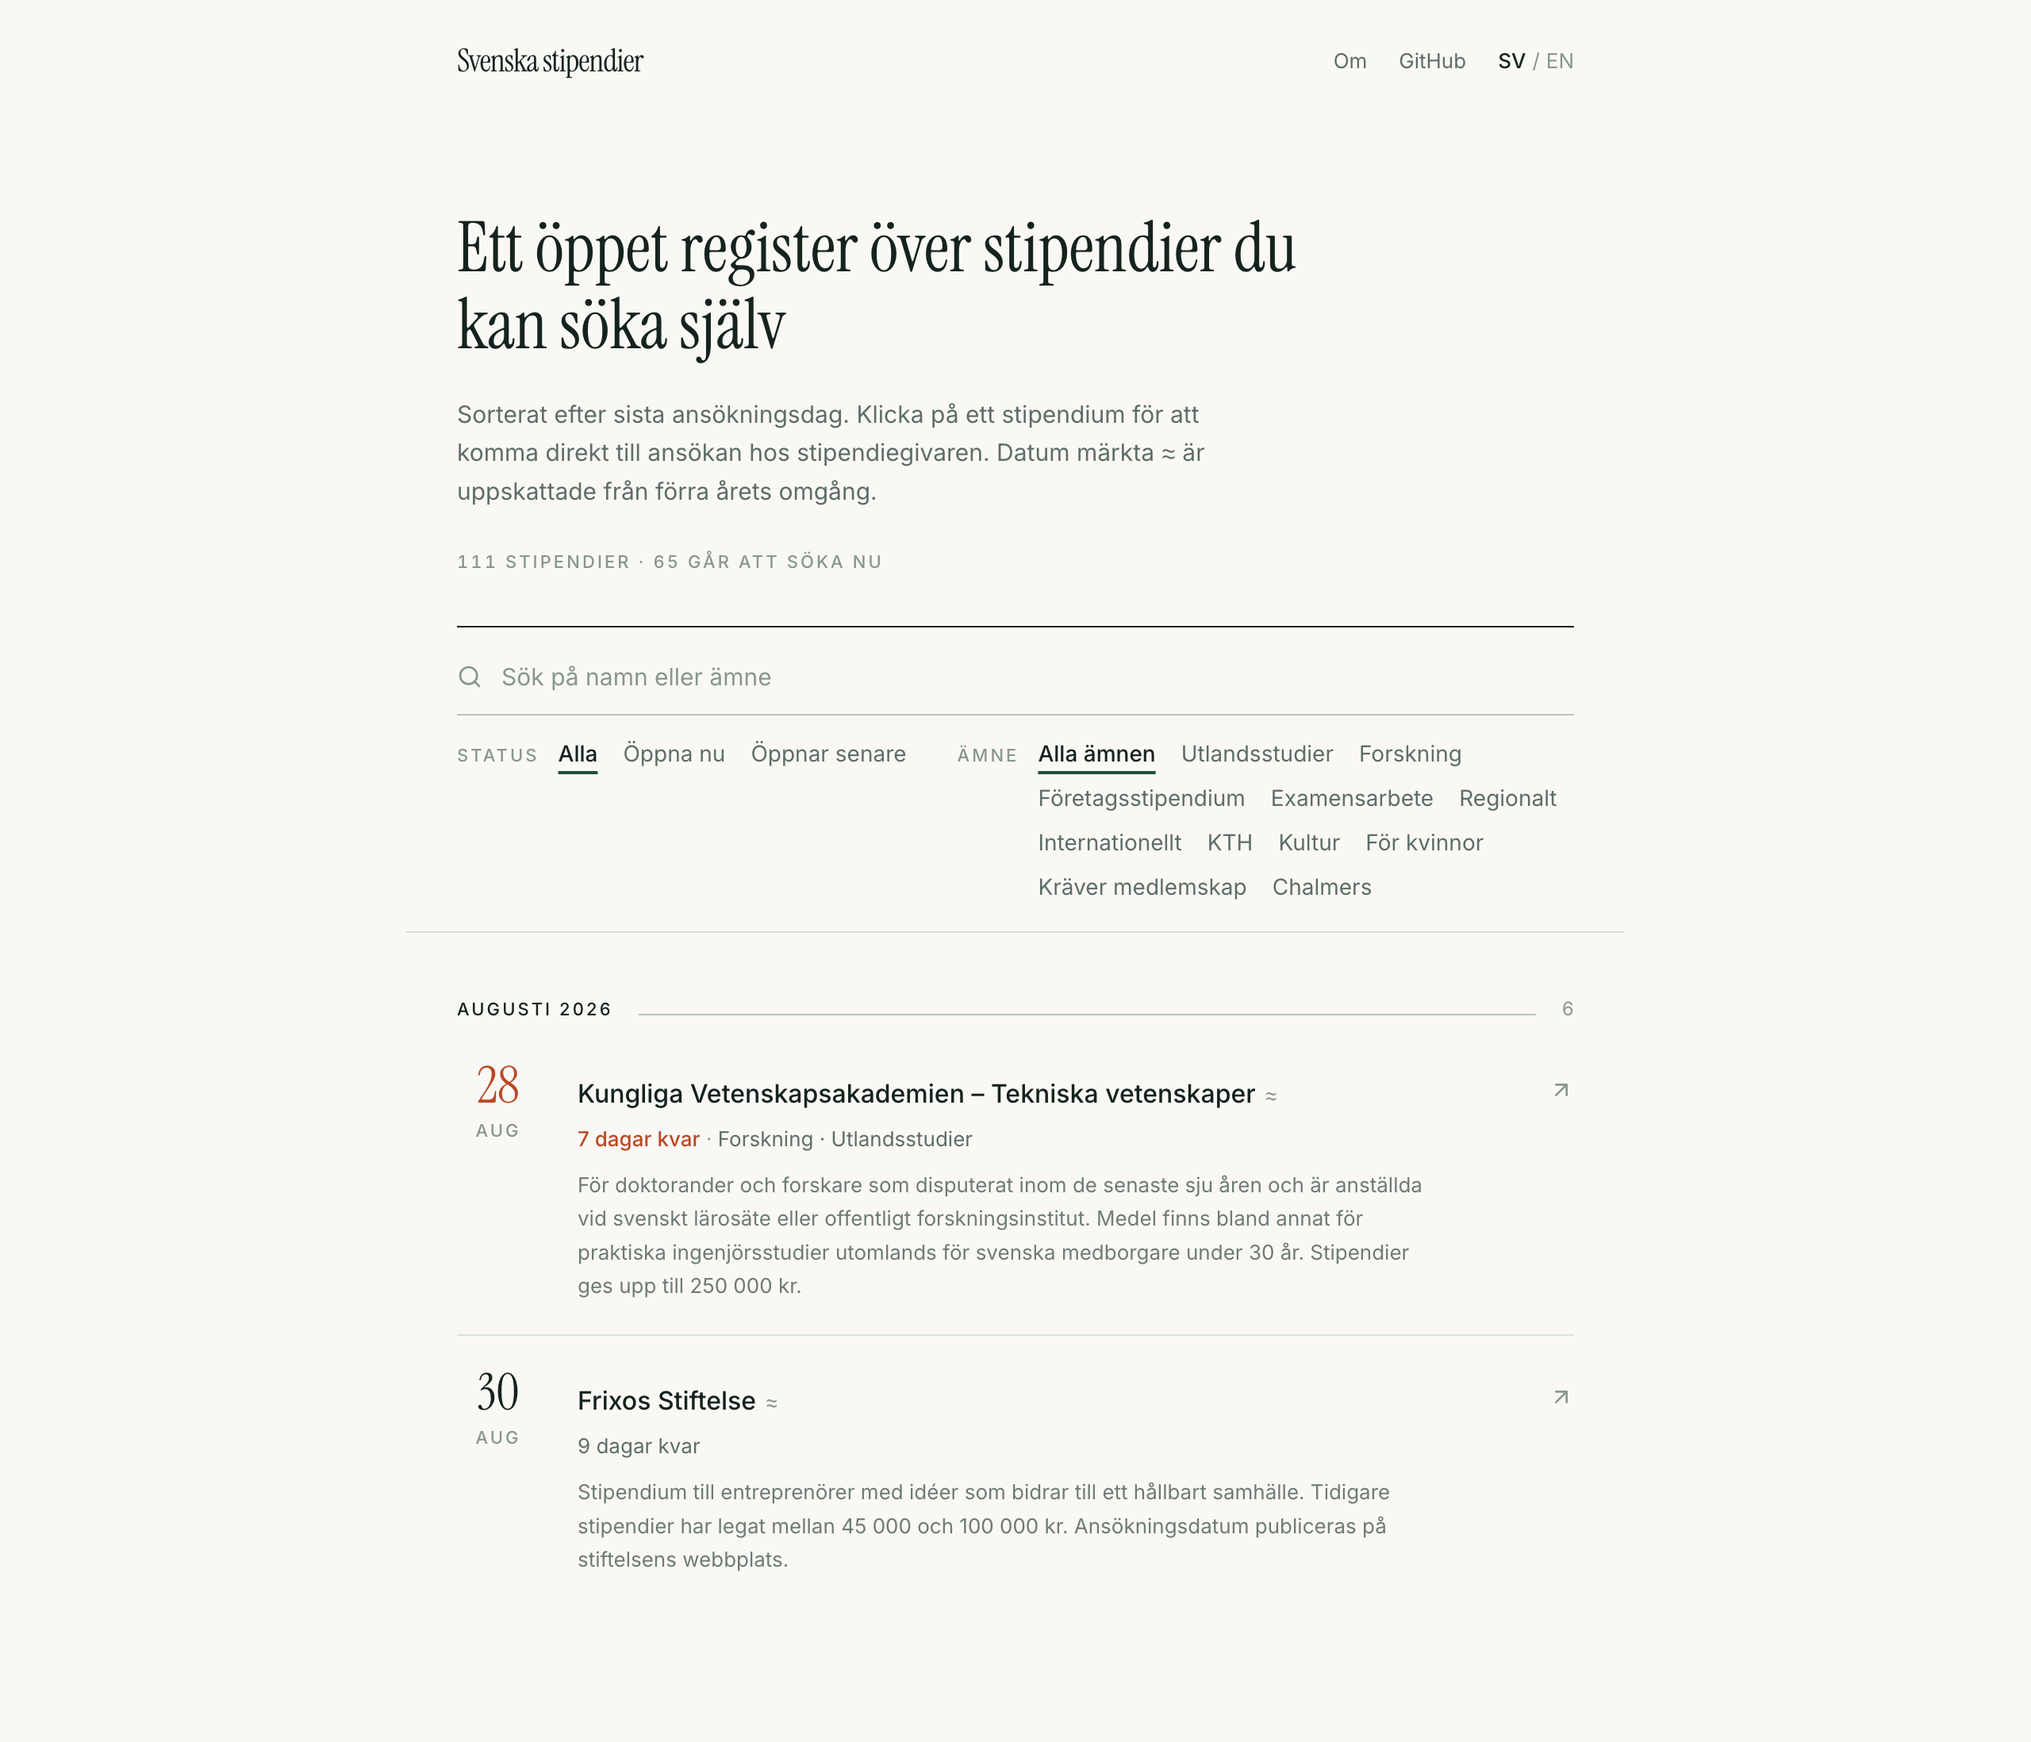
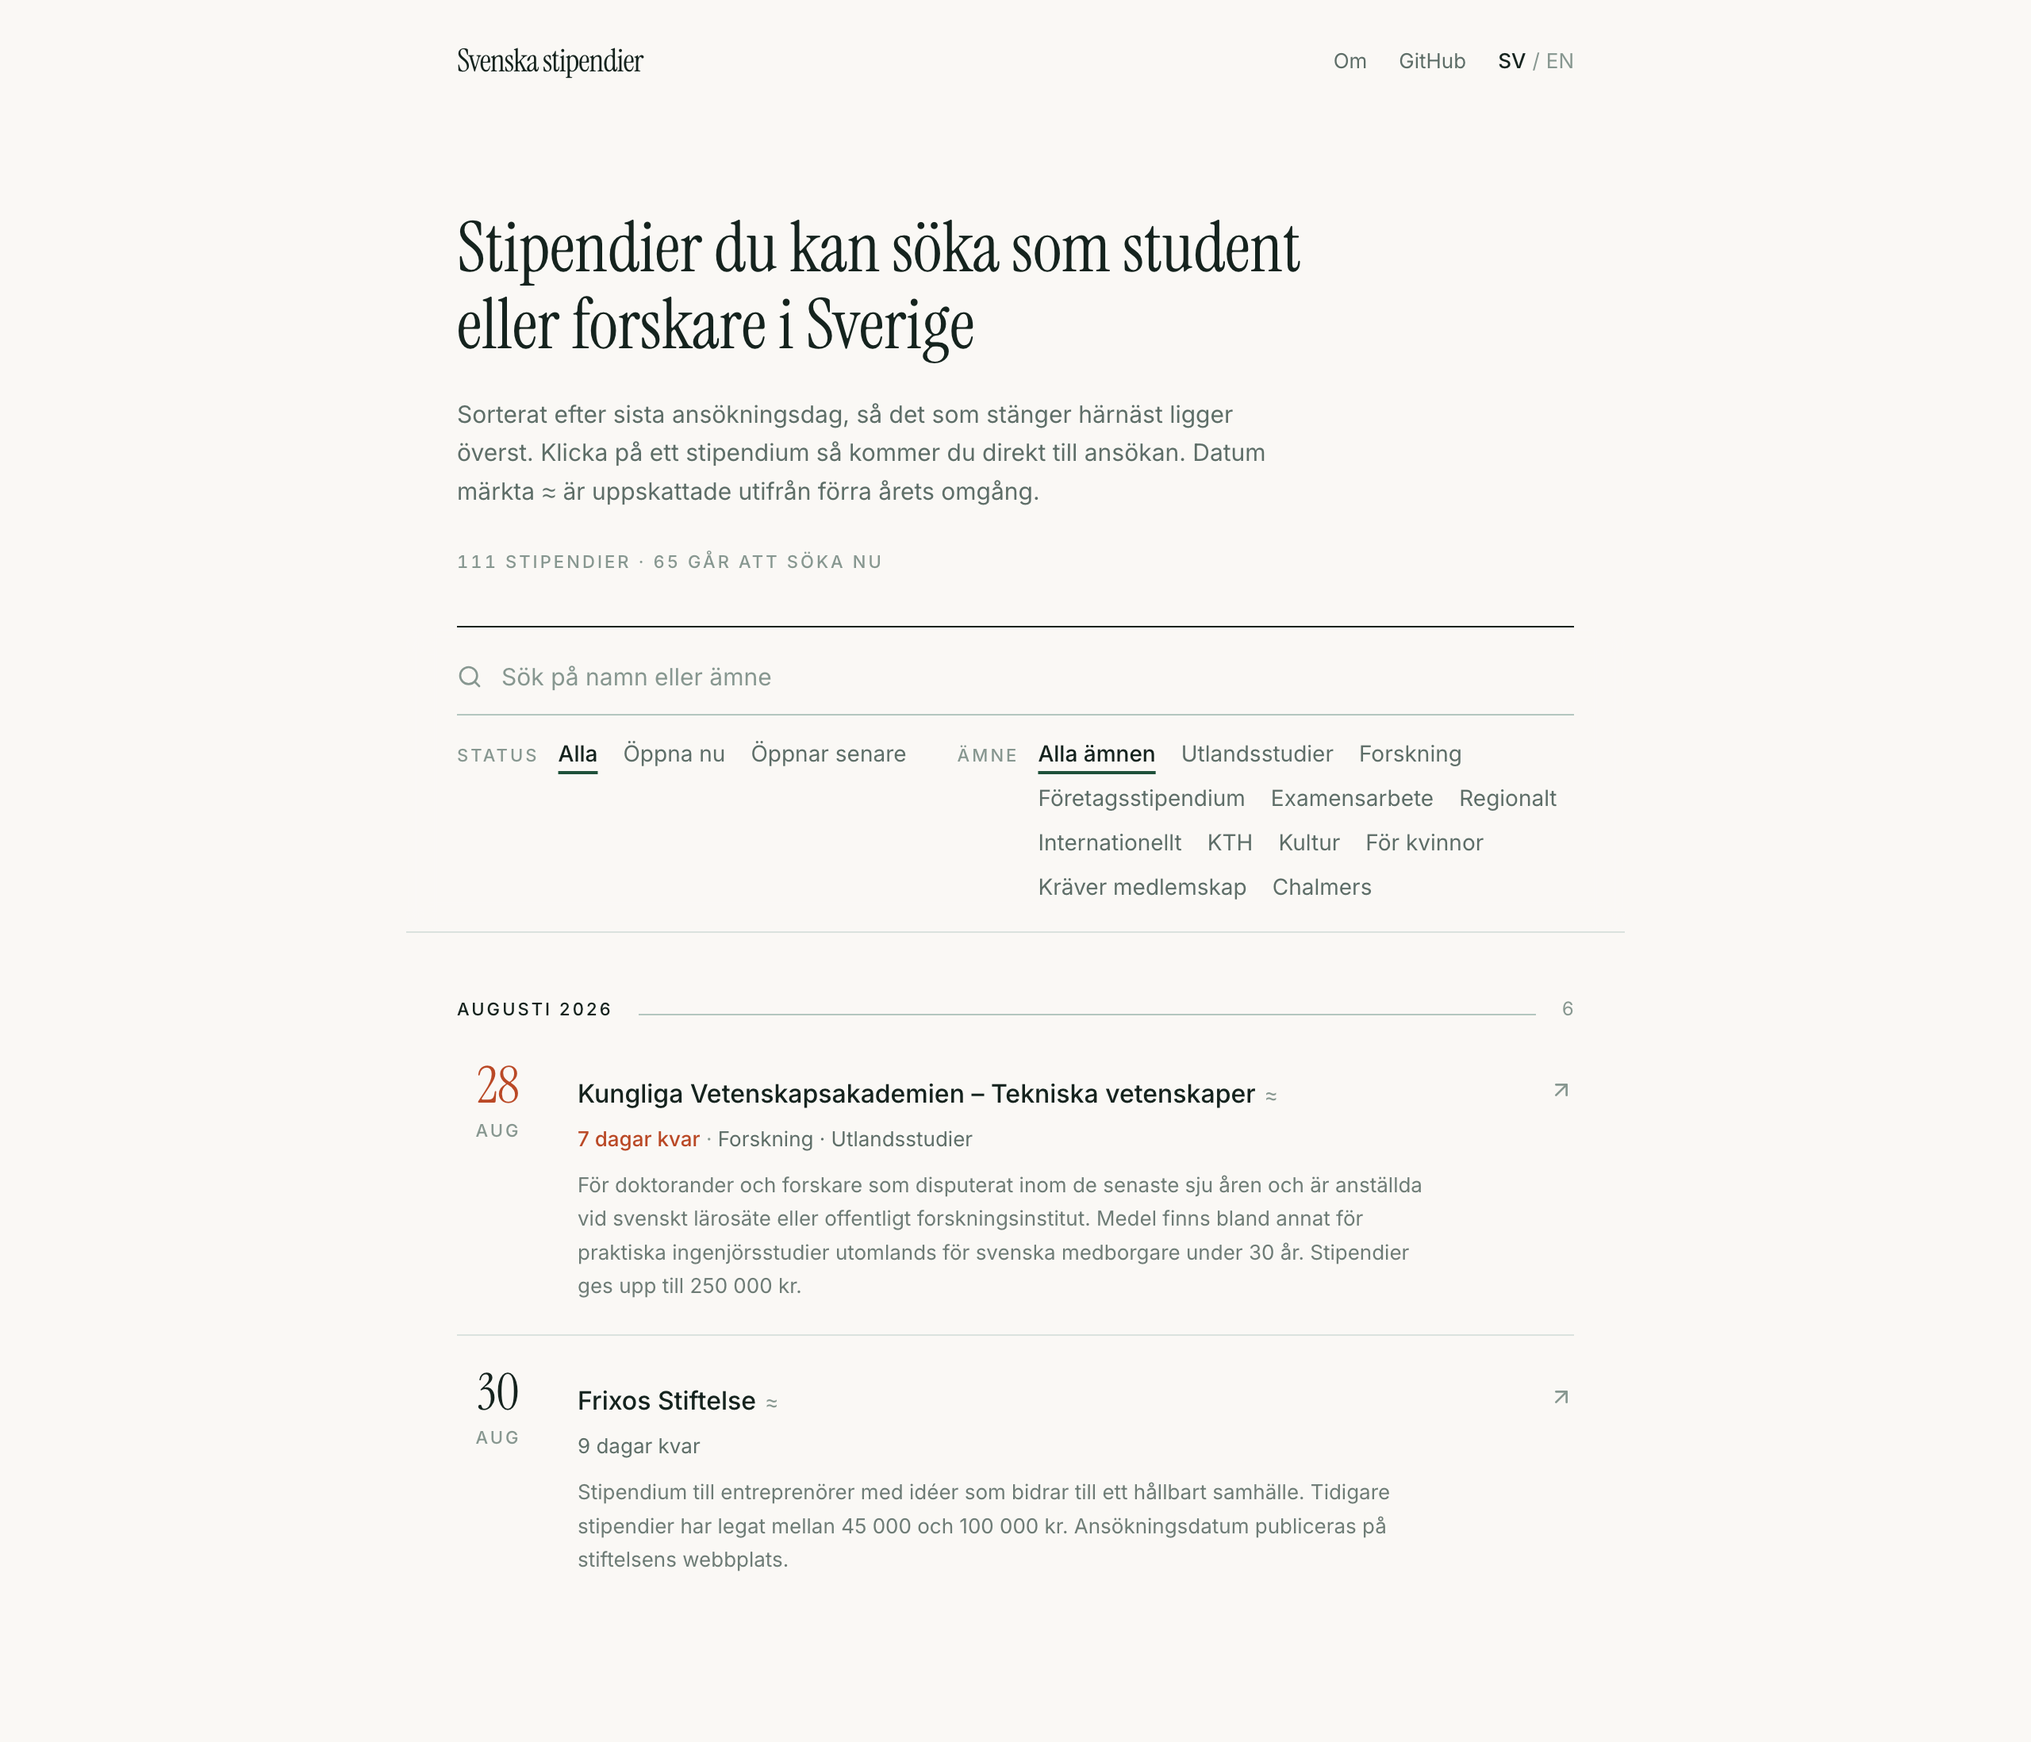
Rewrite the site copy so it sounds like a person
The interface read like a register maintained by an institution. It now
addresses the student or researcher reading it directly: a headline that
says who the list is for, plainer filter and status labels, and an about
page that explains where the dates come from without the officialese.
Swedish first, English to match.

Refreshes the two README screenshots so they show the new wording.

Changed region(s): [[0.2188, 0.1239, 0.625, 0.3097]]

diff --git a/src/lib/i18n.ts b/src/lib/i18n.ts
@@ -14,33 +14,33 @@ export const translations = {
       closeMenu: "Stäng meny",
     },
     directory: {
-      tagline: "Ett öppet register över stipendier du kan söka själv",
+      tagline: "Stipendier du kan söka som student eller forskare i Sverige",
       standfirst:
-        "Sorterat efter sista ansökningsdag. Klicka på ett stipendium för att komma direkt till ansökan hos stipendiegivaren. Datum märkta ≈ är uppskattade från förra årets omgång.",
+        "Sorterat efter sista ansökningsdag, så det som stänger härnäst ligger överst. Klicka på ett stipendium så kommer du direkt till ansökan. Datum märkta ≈ är uppskattade utifrån förra årets omgång.",
       searchPlaceholder: "Sök på namn eller ämne",
       summary: "{{total}} stipendier · {{open}} går att söka nu",
       countOne: "1 träff",
       countMany: "{{count}} träffar",
-      noResults: "Inga stipendier matchar din sökning.",
-      noResultsHint: "Prova ett bredare filter, eller tipsa oss om ett som saknas.",
+      noResults: "Inga träffar på den sökningen.",
+      noResultsHint: "Testa ett bredare filter, eller tipsa oss om ett stipendium som saknas.",
       clearFilters: "Rensa",
       allTags: "Alla ämnen",
       filterSubject: "Ämne",
       filterStatus: "Status",
       rollingHeading: "Löpande ansökan",
-      rollingSub: "Går att söka när som helst",
+      rollingSub: "Du kan söka när som helst",
       lastVerified: "Senast kontrollerad {{date}}",
       applyByEmail: "Mailas till {{email}}",
-      applyByEmailGeneric: "Ansökan mailas in",
+      applyByEmailGeneric: "Du mailar in ansökan",
       applyByPost: "Skickas per post",
-      reportRequired: "Återrapportering",
+      reportRequired: "Kräver återrapportering",
       typicalAmount: "{{amount}} kr",
-      amountUnknown: "Belopp ej angivet",
-      projected: "Uppskattat datum, räknat från förra årets omgång. Kontrollera hos stipendiegivaren.",
+      amountUnknown: "Belopp anges inte",
+      projected: "Uppskattat datum utifrån förra årets omgång. Kolla hos stipendiegivaren innan du planerar efter det.",
       reportProblem: "Rapportera fel",
       contributeTitle: "Saknas något?",
       contributeBody:
-        "Registret underhålls av frivilliga. Hittar du ett stipendium som saknas eller ett datum som ändrats, ta med det.",
+        "Vi letar reda på stipendierna själva, så listan blir aldrig helt komplett. Hittar du ett som saknas, eller ett datum som har ändrats, säg till.",
     },
     phase: {
       open: "Öppna nu",
@@ -70,9 +70,9 @@ export const translations = {
       chalmers: "Chalmers",
     },
     footer: {
-      tagline: "En öppen databas över svenska stipendier.",
+      tagline: "En öppen lista över stipendier du kan söka i Sverige.",
       dataNote:
-        "Uppgifterna underhålls av frivilliga och kan vara inaktuella. Kontrollera alltid mot stipendiegivarens egen webbplats innan du söker.",
+        "Uppgifterna sköts av frivilliga och kan hinna bli inaktuella. Kolla alltid stipendiegivarens egen sida innan du söker.",
       sourceCode: "Källkod på GitHub",
       addScholarship: "Lägg till ett stipendium",
       license: "Data under CC BY 4.0, kod under MIT.",
@@ -84,7 +84,7 @@ export const translations = {
     },
     notFound: {
       title: "Sidan finns inte",
-      back: "Till stipendielistan",
+      back: "Tillbaka till stipendierna",
     },
   },
   en: {
@@ -96,33 +96,33 @@ export const translations = {
       closeMenu: "Close menu",
     },
     directory: {
-      tagline: "An open register of scholarships you can apply for yourself",
+      tagline: "Scholarships you can apply for as a student or researcher in Sweden",
       standfirst:
-        "Ordered by deadline. Click a scholarship to go straight to its application with the awarding body. Dates marked ≈ are projected from last year’s round.",
+        "Ordered by deadline, so whatever closes next is at the top. Click a scholarship to go straight to the application. Dates marked ≈ are estimated from last year's round.",
       searchPlaceholder: "Search by name or subject",
       summary: "{{total}} scholarships · {{open}} open to apply now",
       countOne: "1 result",
       countMany: "{{count}} results",
-      noResults: "No scholarships match your search.",
-      noResultsHint: "Try a broader filter, or tell us about one that is missing.",
+      noResults: "No scholarships match that search.",
+      noResultsHint: "Try a broader filter, or tell us about a scholarship that is missing.",
       clearFilters: "Clear",
       allTags: "All subjects",
       filterSubject: "Subject",
       filterStatus: "Status",
       rollingHeading: "Rolling applications",
-      rollingSub: "Can be applied for at any time",
+      rollingSub: "You can apply at any time",
       lastVerified: "Last checked {{date}}",
       applyByEmail: "Email to {{email}}",
-      applyByEmailGeneric: "Submitted by email",
+      applyByEmailGeneric: "You email the application in",
       applyByPost: "Sent by post",
-      reportRequired: "Report back",
+      reportRequired: "Report back required",
       typicalAmount: "{{amount}} SEK",
       amountUnknown: "Amount not stated",
-      projected: "Estimated date, projected from last year's round. Check with the awarding body.",
+      projected: "Estimated from last year's round. Check with the awarding body before you plan around it.",
       reportProblem: "Report an error",
       contributeTitle: "Something missing?",
       contributeBody:
-        "The register is maintained by volunteers. If a scholarship is missing or a date has moved, add it.",
+        "We find these scholarships ourselves, so the list is never quite complete. If one is missing, or a date has changed, tell us.",
     },
     phase: {
       open: "Open now",
@@ -152,9 +152,9 @@ export const translations = {
       chalmers: "Chalmers",
     },
     footer: {
-      tagline: "An open database of Swedish scholarships.",
+      tagline: "An open list of scholarships you can apply for in Sweden.",
       dataNote:
-        "The data is maintained by volunteers and may be out of date. Always check the awarding body's own website before applying.",
+        "The data is kept up by volunteers and can go out of date. Always check the awarding body's own page before you apply.",
       sourceCode: "Source on GitHub",
       addScholarship: "Add a scholarship",
       license: "Data under CC BY 4.0, code under MIT.",
@@ -166,7 +166,7 @@ export const translations = {
     },
     notFound: {
       title: "Page not found",
-      back: "To the scholarship list",
+      back: "Back to the scholarships",
     },
   },
 } as const;

diff --git a/src/pages/About.tsx b/src/pages/About.tsx
@@ -7,45 +7,45 @@ import { CONTRIBUTING_URL, DATA_DIR_URL, GITHUB_URL, NEW_SCHOLARSHIP_URL } from 
 const content = {
   sv: {
     intro:
-      "Det här är en öppen lista över stipendier som studenter i Sverige kan söka. Den började som ett kalkylark där vi höll reda på våra egna ansökningar, och ligger nu här så att fler kan använda den.",
+      "Det här är en lista över stipendier du kan söka som student eller forskare i Sverige. Den började som ett kalkylark där vi höll koll på våra egna ansökningar, och ligger nu öppet här så att fler kan ha nytta av den.",
     noAccount:
-      "Det finns inget konto att skapa och ingenting att betala för. Du klickar dig vidare till stipendiegivaren och skickar in ansökan själv.",
+      "Du behöver inget konto och det kostar ingenting. Du klickar dig vidare till stipendiegivaren och skickar in ansökan där.",
     dataTitle: "Om uppgifterna",
     dataBody:
-      "Varje stipendium är en JSON-fil i repot. Datumen är hämtade från förra omgången: för stipendier som återkommer varje år räknar sidan fram nästa förväntade datum och markerar det med ≈. Det är en uppskattning, inte ett besked - kontrollera alltid mot stipendiegivarens egen webbplats.",
+      "Varje stipendium är en JSON-fil i repot. Datumen kommer från den senaste omgången vi har kunnat bekräfta. För stipendier som återkommer varje år räknar sidan fram nästa förväntade datum och markerar det med ≈. Det är vår gissning utifrån förra året, inte ett besked från stipendiegivaren, så kolla alltid deras egen sida.",
     contributeBody:
-      "Hittar du ett stipendium som saknas, ett datum som har ändrats eller ett som inte längre delas ut? Öppna ett ärende eller skicka en pull request. Ändringar av en fil kontrolleras automatiskt mot dataschemat.",
+      "Hittar du ett stipendium som saknas, ett datum som har ändrats eller ett som inte delas ut längre? Hör av dig. Du behöver inte kunna koda för att hjälpa till.",
     steps: [
-      "Öppna ett ärende om du hellre bara vill tipsa oss.",
-      "Eller redigera filen direkt på GitHub och skicka en pull request.",
-      "En kontroll validerar formatet automatiskt innan vi slår ihop den.",
+      "Öppna ett ärende på GitHub om du bara vill tipsa oss.",
+      "Eller ändra filen direkt på GitHub och skicka en pull request.",
+      "En automatisk kontroll går igenom formatet innan ändringen läggs in.",
     ],
     linkData: "Se alla datafiler",
     linkContributing: "Läs bidragsguiden",
     linkNew: "Lägg till ett stipendium",
     linkRepo: "Källkoden på GitHub",
-    count: (n: number) => `Listan innehåller just nu ${n} stipendier.`,
+    count: (n: number) => `Listan innehåller ${n} stipendier just nu.`,
   },
   en: {
     intro:
-      "This is an open list of scholarships students in Sweden can apply for. It started as a spreadsheet where we tracked our own applications, and now lives here so more people can use it.",
+      "This is a list of scholarships you can apply for as a student or researcher in Sweden. It started as a spreadsheet where we kept track of our own applications, and now sits here in the open so more people can get something out of it.",
     noAccount:
-      "There is no account to create and nothing to pay for. You click through to the awarding body and submit the application yourself.",
+      "You do not need an account and it costs nothing. You click through to the awarding body and send your application there.",
     dataTitle: "About the data",
     dataBody:
-      "Each scholarship is a JSON file in the repository. Dates come from the last round: for scholarships that recur annually the site projects the next expected date and marks it with ≈. That is an estimate, not an announcement - always check the awarding body's own website.",
+      "Each scholarship is a JSON file in the repository. The dates come from the last round we could confirm. For scholarships that come back every year, the site works out the next expected date and marks it with ≈. That is our guess from last year, not something the awarding body has announced, so always check their own page.",
     contributeBody:
-      "Found a scholarship that is missing, a date that has changed, or one that is no longer awarded? Open an issue or send a pull request. Changes to a file are checked automatically against the data schema.",
+      "Found a scholarship that is missing, a date that has changed, or one that is no longer given out? Let us know. You do not need to be able to code to help.",
     steps: [
-      "Open an issue if you would rather just tell us about it.",
+      "Open an issue on GitHub if you just want to tip us off.",
       "Or edit the file directly on GitHub and send a pull request.",
-      "A check validates the format automatically before we merge it.",
+      "An automatic check goes over the format before the change goes in.",
     ],
     linkData: "Browse the data files",
     linkContributing: "Read the contributing guide",
     linkNew: "Add a scholarship",
     linkRepo: "Source code on GitHub",
-    count: (n: number) => `The list currently holds ${n} scholarships.`,
+    count: (n: number) => `The list holds ${n} scholarships right now.`,
   },
 } as const;
 

diff --git a/README.md b/README.md
@@ -7,7 +7,7 @@
 <h1 align="center">Svenska stipendier</h1>
 
 <p align="center">
-  A free list of scholarships you can apply for as a student in Sweden,<br>
+  A free list of scholarships you can apply for as a student or researcher in Sweden,<br>
   kept as open data.
 </p>
 
